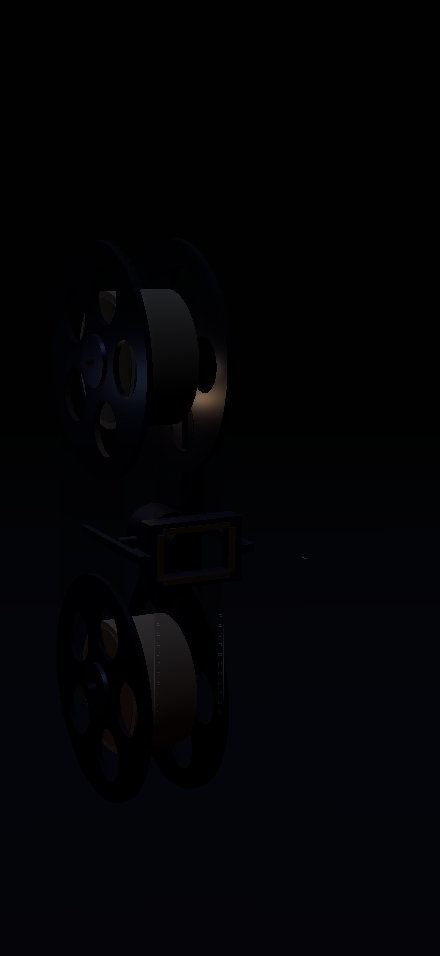
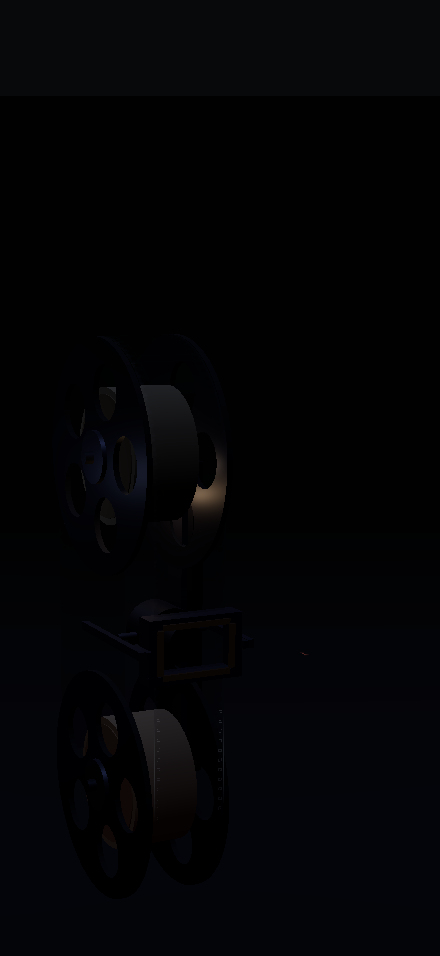
Homepage: refine ISO4 mobile cinematography

diff --git a/app/lib/hero-iso4/scene.ts b/app/lib/hero-iso4/scene.ts
@@ -625,7 +625,7 @@ export function createIso4(canvas: HTMLCanvasElement): Iso4Scene {
       // Move the complete optical system farther into the left side of the
       // phone frame. This gives the output fan the full canvas rather than
       // making the apparatus and all three deliverables huddle on the right.
-      camera.setViewOffset(W, H, Math.round(W * 0.15), 0, W, H)
+      camera.setViewOffset(W, H, Math.round(W * 0.15), Math.round(H * -0.10), W, H)
     }
     camera.updateProjectionMatrix()
     camera.updateMatrixWorld()
@@ -2689,7 +2689,7 @@ export function createIso4(canvas: HTMLCanvasElement): Iso4Scene {
       // upper-right edge of the clear field, Podcast/RSS remains lower-right,
       // and the portrait anchors the left. This changes only the landing
       // planes; projector, beam order, timing, and machine framing stay fixed.
-      const mobileY = mobileLayout ? [-2.7, -0.72, -0.35][i]! : 0
+      const mobileY = mobileLayout ? [-1.15, 0.83, 1.2][i]! : 0
       const mobileScale = mobileLayout ? [1.18, 1.14, 1.12][i]! : 1
       const target = new THREE.Vector3(
         d.x,
@@ -5251,10 +5251,21 @@ export function createIso4(canvas: HTMLCanvasElement): Iso4Scene {
     const chargingActive = completedFrames >= 1 && t <= finalHit + 0.28
     const writerEnvelope = chargingActive ? 1 - minJerk((t - finalHit) / 0.28) : 0
     const chargeRelease = 1 - minJerk((t - finalHit) / Math.max(0.1, BOOT.proj - finalHit + 0.18))
+    // The phone shot previously buried the unlit reel stack in the same
+    // values as the background. Let its existing cool edge and warm archive
+    // practicals wake as information accumulates. This is a material read,
+    // not a global exposure lift: desktop keeps its accepted rig and the
+    // local sources never reach the DOM copy above the machine.
+    const archiveWake = minJerk((t - (FILE_CLEAR_AT + 0.18)) / 3.8)
+    const phonePractical = mobileLayout ? 1 : 0
+    wheelKiss.intensity = 4 + phonePractical * 1.2 * archiveWake
+    archiveGlow.intensity = 2.4 + phonePractical * 0.7 * archiveWake
+    coilGlint.intensity = 1.4 + phonePractical * 0.4 * archiveWake
     for (const mat of lowerChargeMats) {
       mat.emissiveIntensity = 0.005 + chargeProgress * chargeRelease * 0.055 + impactPulse * 0.035
     }
-    lowerReelEmber.intensity = 0.025 + chargeProgress * chargeRelease * 0.22 + impactPulse * 0.18
+    lowerReelEmber.intensity = 0.025 + 0.03 * archiveWake
+      + chargeProgress * chargeRelease * 0.24 + impactPulse * 0.18
     chargeLight.intensity = writerEnvelope * (chargeProgress * 0.06 + writerImpact * 1.25)
     // The writer is persistent neutral hardware. It resolves before the first
     // contact, then only its emissive response pulses; the old disappearing
@@ -5372,12 +5383,25 @@ export function createIso4(canvas: HTMLCanvasElement): Iso4Scene {
         ? 1 + 0.022 * Math.sin(Math.PI * 2 * 0.37 * motionTime)
           + 0.01 * Math.sin(Math.PI * 2 * 0.53 * motionTime + 1.7)
         : 1
-      const terminalLamp = 1 - terminalMachineSettle * 0.82
-      gateGlow.intensity = 2.3 * igf * strike * lampBreath * terminalLamp
-      headGlow.intensity = 2.15 * igf * strike * (1 + (lampBreath - 1) * 0.55) * terminalLamp
-      gateLipMat.emissiveIntensity = 0.008 + 0.034 * igf * lampBreath * terminalLamp
-      payoffTopRimMat.opacity = 0.032 * igf * terminalLamp
-      payoffLowerRimMat.opacity = 0.052 * igf * terminalLamp
+      const terminalLamp = 1 - terminalMachineSettle * 0.68
+      // A projector does not materialize from black on ignition. The decoded
+      // carrier first establishes a restrained ready-state inside the lamp
+      // room; the strike then grows from that practical. Retaining a low,
+      // static residue after wind-down keeps the final machine silhouette
+      // separate from the black stage without suggesting continued activity.
+      const opticalStandby = minJerk((t - (FIRST_ACTIVATION_AT - 0.18)) / 1.35)
+      const standbySettle = 1 - terminalMachineSettle * 0.46
+      gateGlow.intensity = 0.24 * opticalStandby * standbySettle
+        + 2.3 * igf * strike * lampBreath * terminalLamp
+      headGlow.intensity = 0.34 * opticalStandby * standbySettle
+        + 2.15 * igf * strike * (1 + (lampBreath - 1) * 0.55) * terminalLamp
+      gateLipMat.emissiveIntensity = 0.008
+        + 0.007 * opticalStandby * standbySettle
+        + 0.034 * igf * lampBreath * terminalLamp
+      payoffTopRimMat.opacity = 0.007 * opticalStandby * standbySettle
+        + 0.032 * igf * terminalLamp
+      payoffLowerRimMat.opacity = 0.011 * opticalStandby * standbySettle
+        + 0.052 * igf * terminalLamp
       if (gateFrameMat) {
         // The moving film texture already owns the decoded frame. This second
         // optical layer is only a restrained density lift inside the aperture;

diff --git a/app/app.vue b/app/app.vue
@@ -1,6 +1,17 @@
 <script setup lang="ts">
 // Root shell. Per-route chrome lives in layouts/ (default = marketing chrome,
 // docs = the three-pane documentation shell). Pages opt in via definePageMeta.
+// This tiny SSR-inline shell owns the browser's very first paint. Mobile
+// Safari can otherwise show its default white canvas before the external Nuxt
+// stylesheet arrives, which is especially conspicuous beside ISO4's noir
+// prepaint and makes a cold page load feel broken.
+useHead({
+  style: [
+    {
+      innerHTML: 'html,body,#__nuxt{margin:0;min-height:100%;background:#08090a;color-scheme:dark}',
+    },
+  ],
+})
 </script>
 
 <template>

diff --git a/docs/hero-iso4-workshop-journal.md b/docs/hero-iso4-workshop-journal.md
@@ -2557,3 +2557,91 @@ Evidence:
 - `/Users/c3po/co/bitterclip-marketing/tmp/iso4-homepage-workshop/iphone-simulator/mobile-pass2-hardware-cpu4.webm.json`
 - `/Users/c3po/co/bitterclip-marketing/tmp/iso4-homepage-workshop/iphone-simulator/deterministic/mobile-t13.80.png`
 - `/Users/c3po/co/bitterclip-marketing/tmp/iso4-homepage-workshop/iphone-simulator/deterministic/desktop-t13.80.png`
+
+## Round 52 — mobile stage, practical light, and true cold paint
+
+The next actual-device review found that the accepted output triangle was not
+the only mobile composition problem. During accumulation the machine occupied
+the middle-left band, its top reel sat directly beneath the fine-print veil,
+and its lower reel ended well above the browser chrome. The result spent the
+bottom quarter of the stage as undifferentiated black while making the film
+mechanism feel tucked behind the proposition. The terminal fan later occupied
+that space, but the preceding physical-film beat remained under-composed.
+
+Three controlled vertical camera offsets were compared on the homepage at
+440x956 while folder motion, threshold, field, horn, machine geometry, timing,
+and output fan remained unchanged:
+
+- `-6%` canvas height: improved separation but left the apparatus timid.
+- `-8%`: materially better use of the stage, with no protected-region contact.
+- `-10%`: selected. The complete optical system fills the lower stage, the
+  upper reel clears the fine print, and the lower reel approaches the natural
+  browser-chrome boundary without clipping.
+
+The camera crop moves the physical machine, folder, threshold, particles, and
+film together, preserving every world-space relationship. The three projected
+deliverables were counter-lifted by `1.55` world units so the accepted clockwise
+triangle does not inherit the machine's lower crop. Deterministic homepage
+inspection at the entrance, full-clear impact, early write, final write,
+projector strike, first output, and terminal state reports zero copy, CTA, and
+viewport collisions.
+
+Lighting was then separated into material practicals rather than a global
+exposure increase. On the mobile camera, the existing cool reel-edge source,
+warm archive source, and coil glint now rise continuously with accumulated
+information. No light or geometry is added and the t=0 light state remains
+identical to the prior accepted prepaint. The lower reel ember receives only a
+small phase-linked baseline lift. This makes the flanges, wound stock, and
+moving film readable without lifting page blacks or putting a luminous machine
+behind the copy.
+
+The projector gate now has a restrained ready state beginning before the first
+registration and reaching full readiness over 1.35s. Ignition grows out of that
+practical instead of switching from a black housing to a hard yellow edge. The
+terminal lamp settles to 32% rather than 18%, while the ready-state residue
+also decays. The final machine is therefore delineated but motionless; it does
+not read as a continuously hot writer. Film texture, 16fps cadence, reels,
+gate, activation times, terminal wording, and output order remain unchanged.
+
+A true Xcode Simulator cold launch also exposed several browser-default white
+frames before Nuxt's external stylesheet arrived. A minimal SSR-inline root
+shell now establishes `#08090a` and `color-scheme: dark` on the first document
+paint. This is global paint hygiene, not a homepage layout edit. The 440x956
+mobile prepaint was translated by the exact selected 96px view offset and
+re-encoded losslessly; because the scene's t=0 lighting remains unchanged, the
+poster and canvas retain the same opening pose rather than recreating the old
+skinny-to-wide or left-nudge defect.
+
+Rejected alternatives:
+
+- Moving individual reel, film, gate, or writer geometry: would break the
+  accepted physical system and merely hide a camera-composition problem.
+- `-6%` and `-8%` offsets: safe, but they did not make full use of the mobile
+  stage.
+- Letting the output fan follow the `-10%` crop: pushed the lower deliverables
+  toward the browser boundary and weakened the accepted terminal triangle.
+- Global ambient, exposure, bloom, or halo inflation: would flatten the noir
+  hierarchy, contaminate page blacks, and still fail to explain the machine's
+  materials.
+- A bright persistent gate: read as a screen or status LED rather than a
+  physical lamp room.
+
+Repository verification on 2026-08-22: `git diff --check` passed, `bun run
+generate` completed with the existing non-fatal sourcemap warnings, and `bun
+run qa:smoke` passed all 44 tests in 1.2 minutes. The scene changes add no draw
+calls, textures, uploads, or simulated bodies; they alter only the mobile view
+offset, settled target coordinates, and scalar intensities on existing lights.
+
+Evidence:
+
+- `/Users/c3po/co/bitterclip-marketing/tmp/iso4-homepage-workshop/mobile-cinematography/r52-baseline/contact.png`
+- `/Users/c3po/co/bitterclip-marketing/tmp/iso4-homepage-workshop/mobile-cinematography/r53-offset06/contact.png`
+- `/Users/c3po/co/bitterclip-marketing/tmp/iso4-homepage-workshop/mobile-cinematography/r54-offset08/contact.png`
+- `/Users/c3po/co/bitterclip-marketing/tmp/iso4-homepage-workshop/mobile-cinematography/r55-offset10/contact.png`
+- `/Users/c3po/co/bitterclip-marketing/tmp/iso4-homepage-workshop/mobile-cinematography/r56-offset10-outputlift/contact.png`
+- `/Users/c3po/co/bitterclip-marketing/tmp/iso4-homepage-workshop/mobile-cinematography/r57-practical-light/contact.png`
+- `/Users/c3po/co/bitterclip-marketing/tmp/iso4-homepage-workshop/mobile-cinematography/r57-practical-light/simulator-local-continuous.mp4`
+- `/Users/c3po/co/bitterclip-marketing/tmp/iso4-homepage-workshop/mobile-cinematography/r57-practical-light/simulator-contact.png`
+- `/Users/c3po/co/bitterclip-marketing/tmp/iso4-homepage-workshop/mobile-cinematography/r57-practical-light/simulator-local-cold.mp4`
+- `/Users/c3po/co/bitterclip-marketing/tmp/iso4-homepage-workshop/mobile-cinematography/r57-practical-light/simulator-cold-contact.png`
+- `/Users/c3po/co/bitterclip-marketing/tmp/iso4-homepage-workshop/mobile-cinematography/r58-prepaint/shifted.png`
